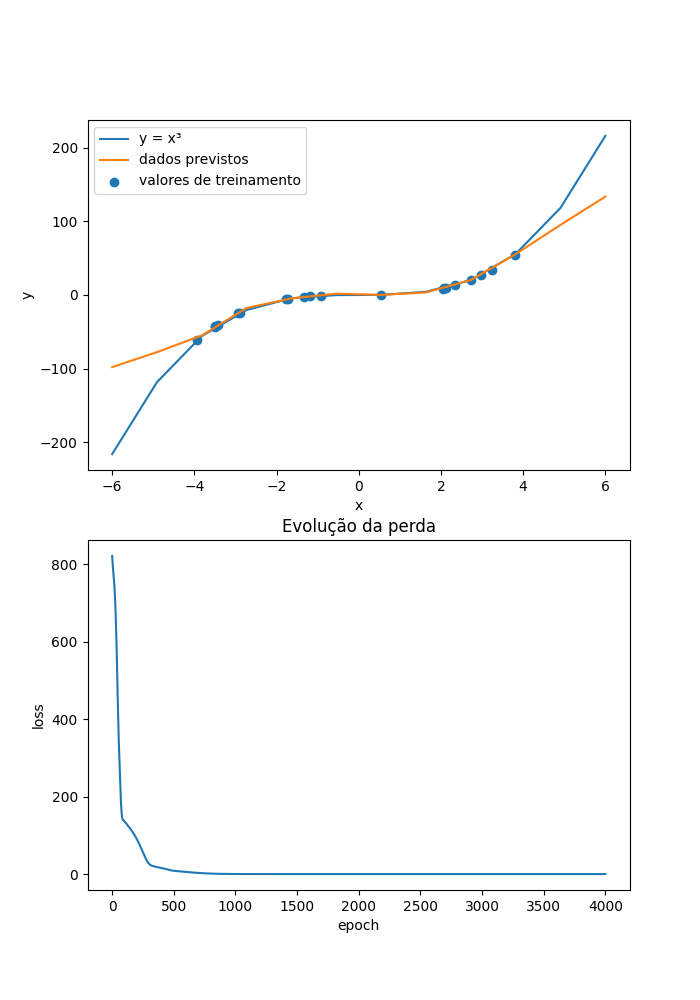
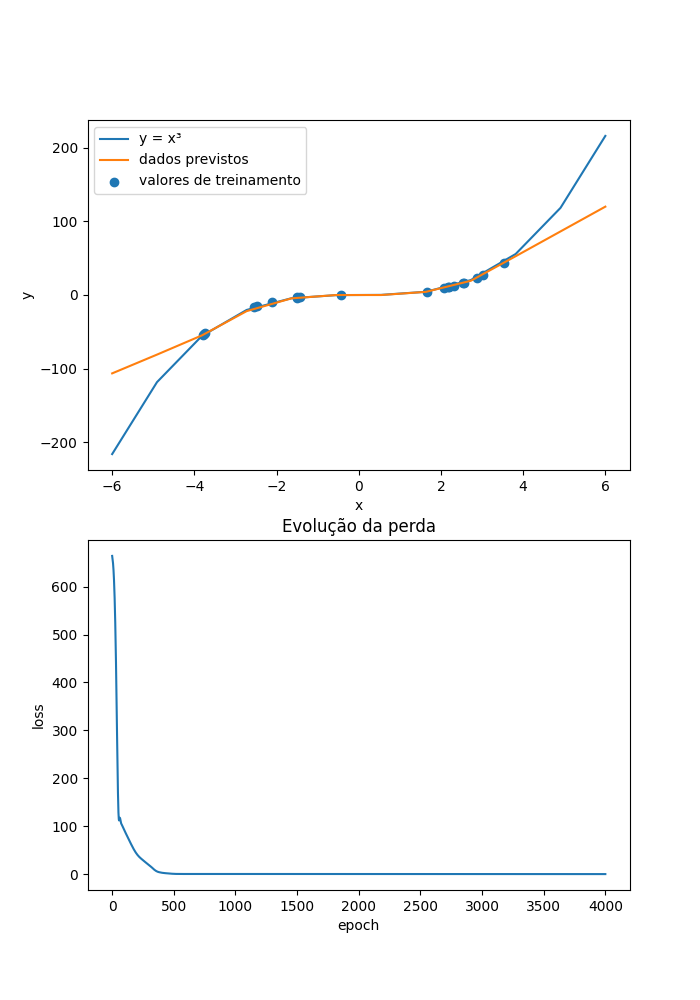
Tentando definir os casos de análise de forma mais inteligente (Newton para 1d e uma versão modificada do mesmo para com mais de 1 neuronios)

diff --git a/Work/Ex1_descida do gradiente coontrolada.py b/Work/Ex1_descida do gradiente coontrolada.py
@@ -1,0 +1,243 @@
+print(" ---- importando dependências ---- ")
+import torch as t
+import random
+import numpy as np
+import matplotlib.pyplot as plt
+import json
+import tqdm
+import Rede_neural as rn
+
+print(" ---- definido parâmetros ---- ")
+def plotagem_1d_modelo(xf, func, y_pred, y_true, loss, func_label, path):
+    '''
+    xf: intervalo onde plotar a função
+    func: função exata
+    y_pred: valores preditos pelo modelo
+    y_true: valores de treinamento
+    loss: vetor com as perdas
+    func_label: texto a associar com função exata
+    path: caminho e nome do arquivo para salvar
+    '''
+    fig, (ax, ax2) = plt.subplots(2,1, figsize = (7, 10))
+    ax.plot(xf, func(xf), label = func_label)
+    ax.plot(xf, y_pred.detach().numpy(), label = "dados previstos")
+    ax.scatter(x_true, y_true, label = "valores de treinamento")
+    ax.legend()
+    ax.set_xlabel("x")
+    ax.set_ylabel("y")
+    ax2.set_title("Evolução da perda")
+    ax2.set_xlabel("epoch")
+    ax2.set_ylabel("loss")
+    ax2.plot(range(4000), loss)
+    fig.savefig(path)
+
+def processamento_agrupado(model_class, neuronios, activation_func, x_true, y_true, xf, func, error_func):
+    neuronios_tot = [1] + neuronios + [1]
+
+    #instanciaando a rede
+    model = model_class(neuronios_tot, activation_func, zerar_seed=1)
+
+    #realizando o treinamento
+    loss = model.treino(x_true, y_true)
+
+    #determinando valores finais após treinamento
+    y_pred = model.foward(t.tensor(np.array([xf]).T, dtype = t.float32)).squeeze()
+    
+    #estimando erro de extrapolação da função
+    error_measure = error_func(t.tensor(func(xf), dtype= t.float64), y_pred).item()
+
+    #plotando a resultados
+    text = f"Work\Ex1_graphs\{activation_func}"
+    for i in range(len(neuronios)):
+        text = text + f"_hidden{i+1}_{neuronios[i]}"
+    plotagem_1d_modelo(xf, func, y_pred, y_true, loss, "y = x³",text)
+
+    return error_measure
+
+#dicionário com os erros de diversas situações
+dict_erros = {}
+
+#função
+func = lambda x: x ** 3
+#amostras 
+number_samples = 20
+xa, xb = -4, 4
+#t.manual_seed(0)
+x_true = xa + (xb-xa) * t.rand(number_samples, 1)
+y_true = func(x_true)
+
+#valores de validação
+xf = np.linspace(-6, 6, 12)
+
+#erro de função
+error_func = t.nn.MSELoss()
+# error_func = lambda y_true, y_pred = np.sum((func(xf)-y_pred.detach().numpy())**2)
+
+# neuronios e funções de  ativação a testar
+activation_func_list = ("ReLU", "sigmoid", "tanh")
+n_neuronios_inicial = 10
+passo_centrado = 20
+n_iterations = 2
+n_max_layers = 3
+n_max_neuronios_per_layer = 1000
+
+print(" ---- treinando e validando a rede ---- ")
+with tqdm.tqdm(total=len(activation_func_list)*n_iterations*n_max_layers) as pbar:
+
+    for activation_func in activation_func_list:
+        dict_erros[activation_func] = {}
+
+        '''
+        print(f" ---- análise para uma rede com 1 camada oculta com a função de ativação {activation_func} ---- ")
+        
+        # chute inicial
+        for neuronios_1 in (n_neuronios_inicial, n_neuronios_inicial+passo_centrado):
+            print(f" - com {neuronios_1} neuronios na 1ª camada")
+
+            #treinando, plotando e definindo erros de extrapolação
+            error_measure = processamento_agrupado(rn.neural_net_interno_1_hidden, [neuronios_1], activation_func, x_true, y_true, xf, func, error_func)
+            dict_erros[activation_func][neuronios_1] = error_measure
+            
+            # atualizando barra de progresso
+            pbar.update(1)
+        
+        #estimando grandiente do erro de extrapolação
+        grad = (dict_erros[activation_func][n_neuronios_inicial] - dict_erros[activation_func][n_neuronios_inicial+passo_centrado]) / passo_centrado
+        flag = []
+        for i in range(n_iterations-1):
+            #ajuste do número de neuronios pelo método de newton
+            neuronios_old = neuronios_1
+            neuronios_1 = int(neuronios_1 - error_measure/grad)
+
+            # controle para não se ter um número excessivo ou negativo de neuronios
+            if neuronios_1 >= n_max_neuronios_per_layer:
+                if 1 in flag:
+                    print(" - loop noticiado")
+                    pbar.update(n_iterations - 1 - i)
+                    break
+                
+                flag.append(1)
+                neuronios_1 = n_max_neuronios_per_layer
+            elif neuronios_1 <= 1:
+                if 0 in flag:
+                    print(" - loop noticiado")
+                    pbar.update(n_iterations - 1 - i)
+                    break
+
+                flag.append(0)
+                neuronios_1 = 1
+            
+            print(f" - com {neuronios_1} neuronios na 1ª camada")
+
+            #estimando erro de extrapolação da função
+            error_old = error_measure
+            error_measure = error_measure = processamento_agrupado(rn.neural_net_interno_1_hidden, [neuronios_1], activation_func, x_true, y_true, xf, func, error_func)
+            dict_erros[activation_func][neuronios_1] = error_measure
+
+            # cálculo do gradiente
+            grad = (error_measure - error_old) / (neuronios_1 - neuronios_old)
+            
+            # atualizando barra de progresso
+            pbar.update(1)
+
+        # 2 hidden layer
+        # determinação do chute inicial
+        neuronios = [n_neuronios_inicial, n_neuronios_inicial]
+
+        for i in range(n_iterations):
+            grad = []
+            print(f" - com {neuronios[0]} neuronios na 1ª camada \n \t e {neuronios[1]} neuronios na 2ª camada")
+            
+            error_measure_old = processamento_agrupado(rn.neural_net_interno_2_hidden, neuronios, activation_func, x_true, y_true, xf, func, error_func)
+            dict_erros[activation_func][f"{neuronios[0]},{neuronios[1]}"] = error_measure_old
+            
+            #rodadndo para determinação da derivada do número de neuronios na 1ª camada
+            print(f" - com {neuronios[0] + passo_centrado} neuronios na 1ª camada \n \t e {neuronios[1]} neuronios na 2ª camada")
+        
+            error_measure = processamento_agrupado(rn.neural_net_interno_2_hidden, [neuronios[0] + passo_centrado, neuronios[1]], activation_func, x_true, y_true, xf, func, error_func)
+            dict_erros[activation_func][f"{neuronios[0]+passo_centrado},{neuronios[1]}"] = error_measure
+            
+            #determinado derivada
+            grad.append((error_measure-error_measure_old)/passo_centrado)
+
+            #rodadndo para determinação da derivada do número de neuronios na 2ª camada
+            print(f" - com {neuronios[0]} neuronios na 1ª camada \n \t e {neuronios[1] + passo_centrado} neuronios na 2ª camada")
+            
+            error_measure = processamento_agrupado(rn.neural_net_interno_2_hidden, [neuronios[0], neuronios[1] + passo_centrado], activation_func, x_true, y_true, xf, func, error_func)
+            dict_erros[activation_func][f"{neuronios[0]},{neuronios[1]+passo_centrado}"] = error_measure
+
+            #determinado derivada
+            grad.append((error_measure-error_measure_old)/passo_centrado)
+            grad = np.array(grad)
+
+            #determinação do próximo chute
+            flag = list(np.array(neuronios) - error_measure_old*grad/(np.linalg.norm(grad))**2)
+            for i in range(len(flag)):
+                if flag[i] >= n_max_neuronios_per_layer:
+                    neuronios[i] = n_max_neuronios_per_layer
+                elif flag[i] <= 1:
+                    neuronios[i] = 1
+                else:
+                    neuronios[i] = int(flag[i])
+
+            # atualizando barra de progresso
+            pbar.update(1)
+        
+        '''
+        # 3 hidden layer
+        # determinação do chute inicial
+        neuronios = [n_neuronios_inicial, n_neuronios_inicial, n_neuronios_inicial]
+
+        for i in range(n_iterations):
+            grad = []
+            print(f" - com {neuronios[0]} neuronios na 1ª camada; \n \t {neuronios[1]} neuronios na 2ª camada; \n \t e {neuronios[2]} neuronios na 2ª camada")
+            
+            error_measure_old = processamento_agrupado(rn.neural_net_interno_3_hidden, neuronios, activation_func, x_true, y_true, xf, func, error_func)
+            dict_erros[activation_func][f"{neuronios[0]},{neuronios[1]},{neuronios[2]}"] = error_measure_old
+            
+            #rodadndo para determinação da derivada do número de neuronios na 1ª camada
+            print(f" - com {neuronios[0]+passo_centrado} neuronios na 1ª camada; \n \t {neuronios[1]} neuronios na 2ª camada; \n \t e {neuronios[2]} neuronios na 2ª camada")
+        
+            error_measure = processamento_agrupado(rn.neural_net_interno_3_hidden, [neuronios[0] + passo_centrado, neuronios[1], neuronios[2]], activation_func, x_true, y_true, xf, func, error_func)
+            dict_erros[activation_func][f"{neuronios[0]+passo_centrado},{neuronios[1]},{neuronios[2]}"] = error_measure
+            
+            #determinado derivada
+            grad.append((error_measure-error_measure_old)/passo_centrado)
+
+            #rodadndo para determinação da derivada do número de neuronios na 2ª camada
+            print(f" - com {neuronios[0]} neuronios na 1ª camada; \n \t {neuronios[1] + passo_centrado} neuronios na 2ª camada; \n \t e {neuronios[2]} neuronios na 2ª camada")
+        
+            error_measure = processamento_agrupado(rn.neural_net_interno_3_hidden, [neuronios[0], neuronios[1] + passo_centrado, neuronios[2]], activation_func, x_true, y_true, xf, func, error_func)
+            dict_erros[activation_func][f"{neuronios[0]},{neuronios[1]+passo_centrado},{neuronios[2]}"] = error_measure
+
+            #determinado derivada
+            grad.append((error_measure-error_measure_old)/passo_centrado)
+
+            #rodadndo para determinação da derivada do número de neuronios na 3ª camada
+            print(f" - com {neuronios[0]} neuronios na 1ª camada; \n \t {neuronios[1]} neuronios na 2ª camada; \n \t e {neuronios[2] + passo_centrado} neuronios na 2ª camada")
+        
+            error_measure = processamento_agrupado(rn.neural_net_interno_3_hidden, [neuronios[0], neuronios[1], neuronios[2] + passo_centrado], activation_func, x_true, y_true, xf, func, error_func)
+            dict_erros[activation_func][f"{neuronios[0]},{neuronios[1]},{neuronios[2]+ passo_centrado}"] = error_measure
+
+            #determinado derivada
+            grad.append((error_measure-error_measure_old)/passo_centrado)
+            grad = np.array(grad)
+
+            #determinação do próximo chute
+            flag = list(np.array(neuronios) - error_measure_old*grad/(np.linalg.norm(grad))**2)
+            for i in range(len(flag)):
+                if flag[i] >= n_max_neuronios_per_layer:
+                    neuronios[i] = n_max_neuronios_per_layer
+                elif flag[i] <= 1:
+                    neuronios[i] = 1
+                else:
+                    neuronios[i] = int(flag[i])
+
+            # atualizando barra de progresso
+            pbar.update(1)
+        break
+
+print(" ---- salvando erros ---- ")
+dict_erros = json.dumps(dict_erros)
+with open("Work\Ex1_graphs\Erros.txt", "w") as file:
+    print(dict_erros, file=file)

diff --git a/Work/Ex1.py b/Work/Ex1.py
@@ -54,7 +54,7 @@ activation_func_list = ("ReLU", "sigmoid", "tanh")
 neuronios_list = (5, 10, 15, 20, 25, 30)
 
 print(" ---- treinando e validando a rede ---- ")
-with tqdm.tqdm(total=len(activation_func_list) + len(neuronios_list)*(1+len(neuronios_list)*(1+len(neuronios_list)))) as pbar:
+with tqdm.tqdm(total=len(activation_func_list)*len(neuronios_list)*(1+len(neuronios_list)*(1+len(neuronios_list)))) as pbar:
 
     # error_func = lambda y_true, y_pred = np.sum((func(xf)-y_pred.detach().numpy())**2)
     for activation_func in activation_func_list:
@@ -62,7 +62,7 @@ with tqdm.tqdm(total=len(activation_func_list) + len(neuronios_list)*(1+len(neur
 
         # 1 hidden layer
         for neuronios_1 in (5, 10, 15, 20, 25, 30):
-            model = rn.neural_net_interno_1_hidden([1, neuronios_1, 1], activation_func) # uma camada interna de 20]
+            model = rn.neural_net_interno_1_hidden([1, neuronios_1, 1], activation_func, zerar_seed=1) # uma camada interna de 20]
             loss = model.treino(x_true, y_true)
 
             y_pred = model.foward(t.tensor(np.array([xf]).T, dtype = t.float32)).squeeze()
